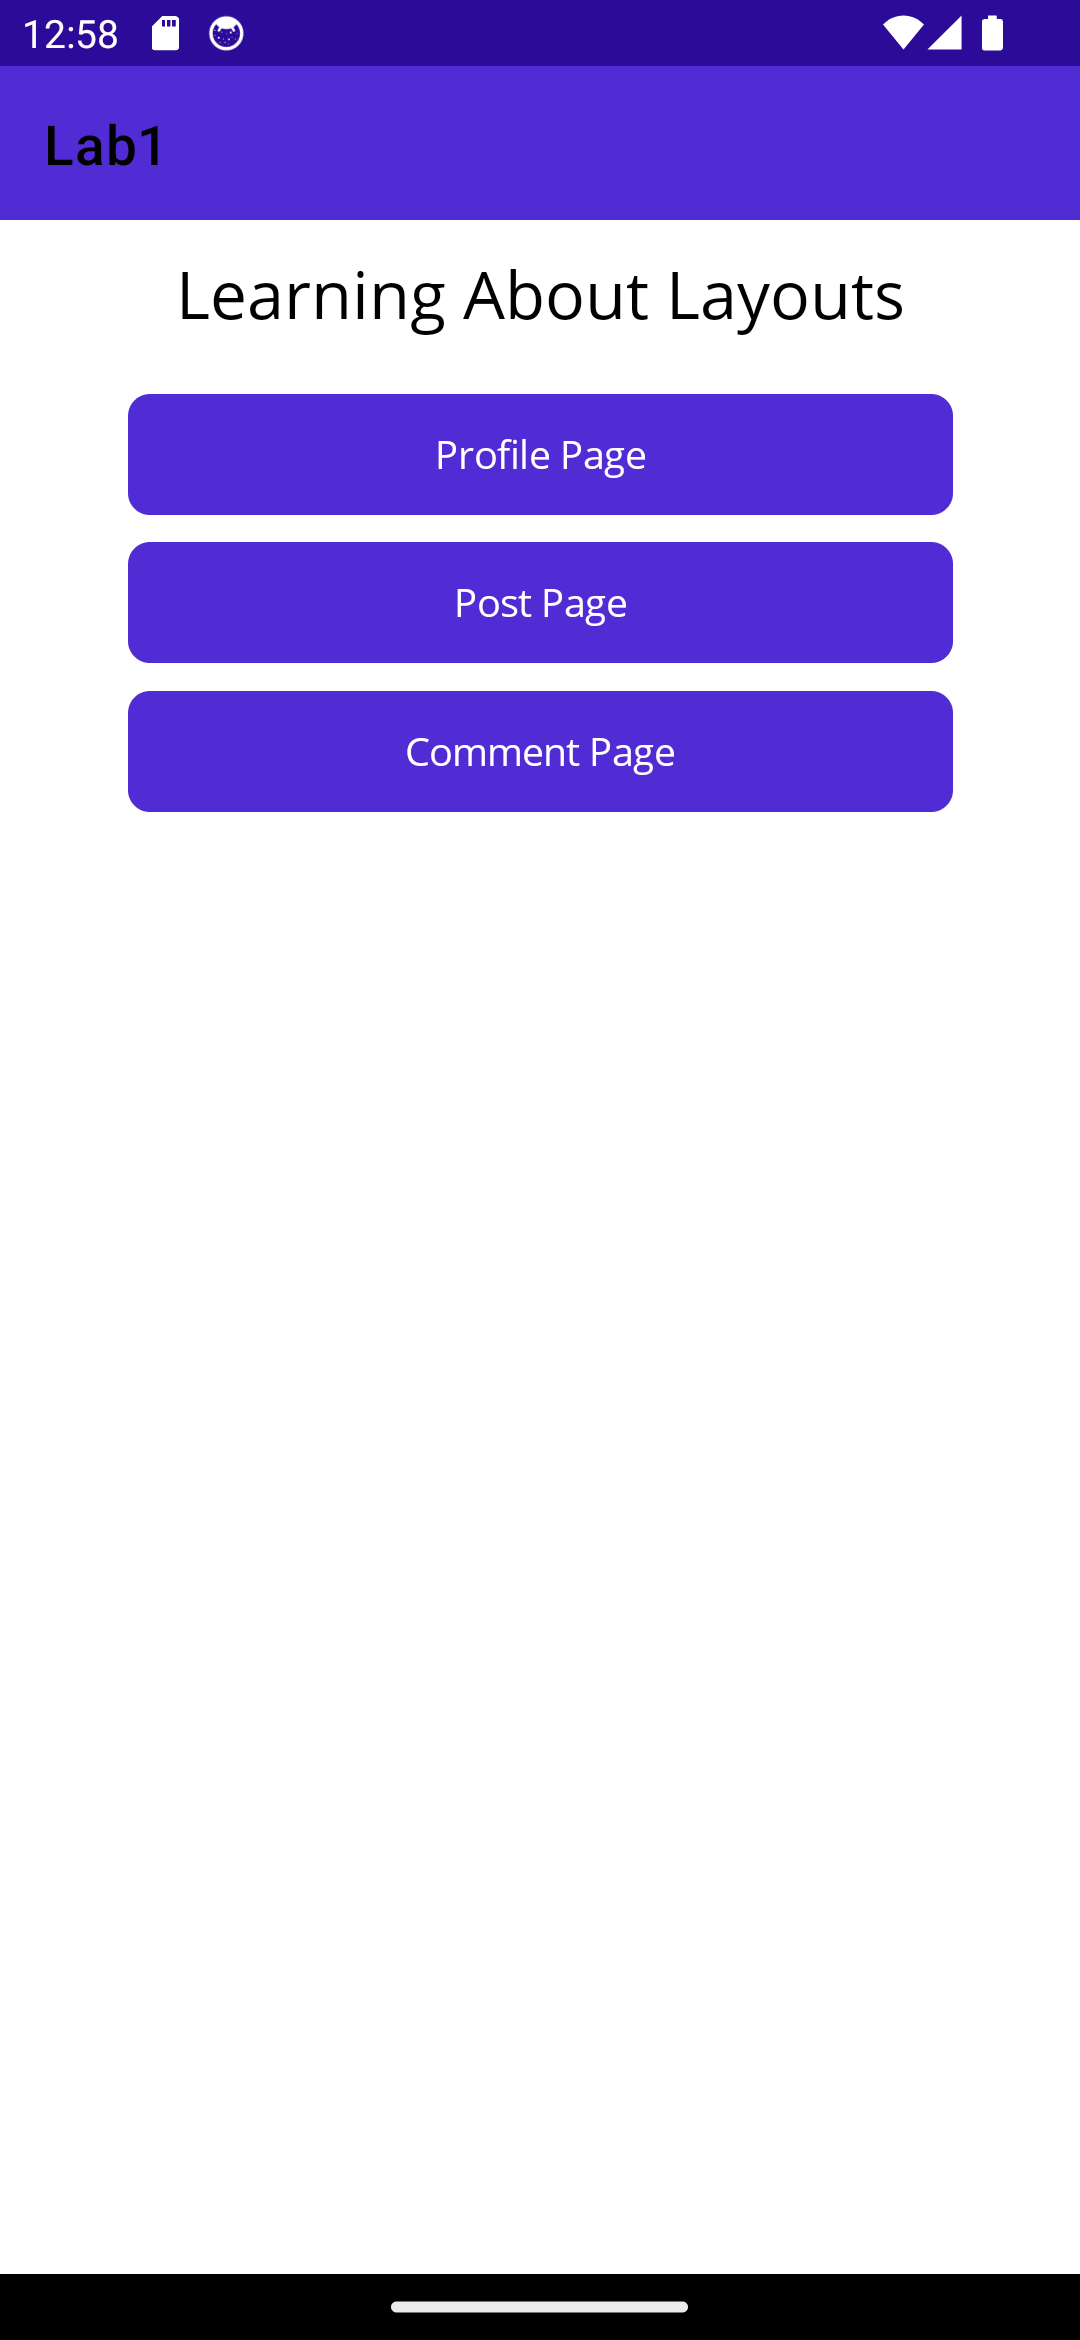
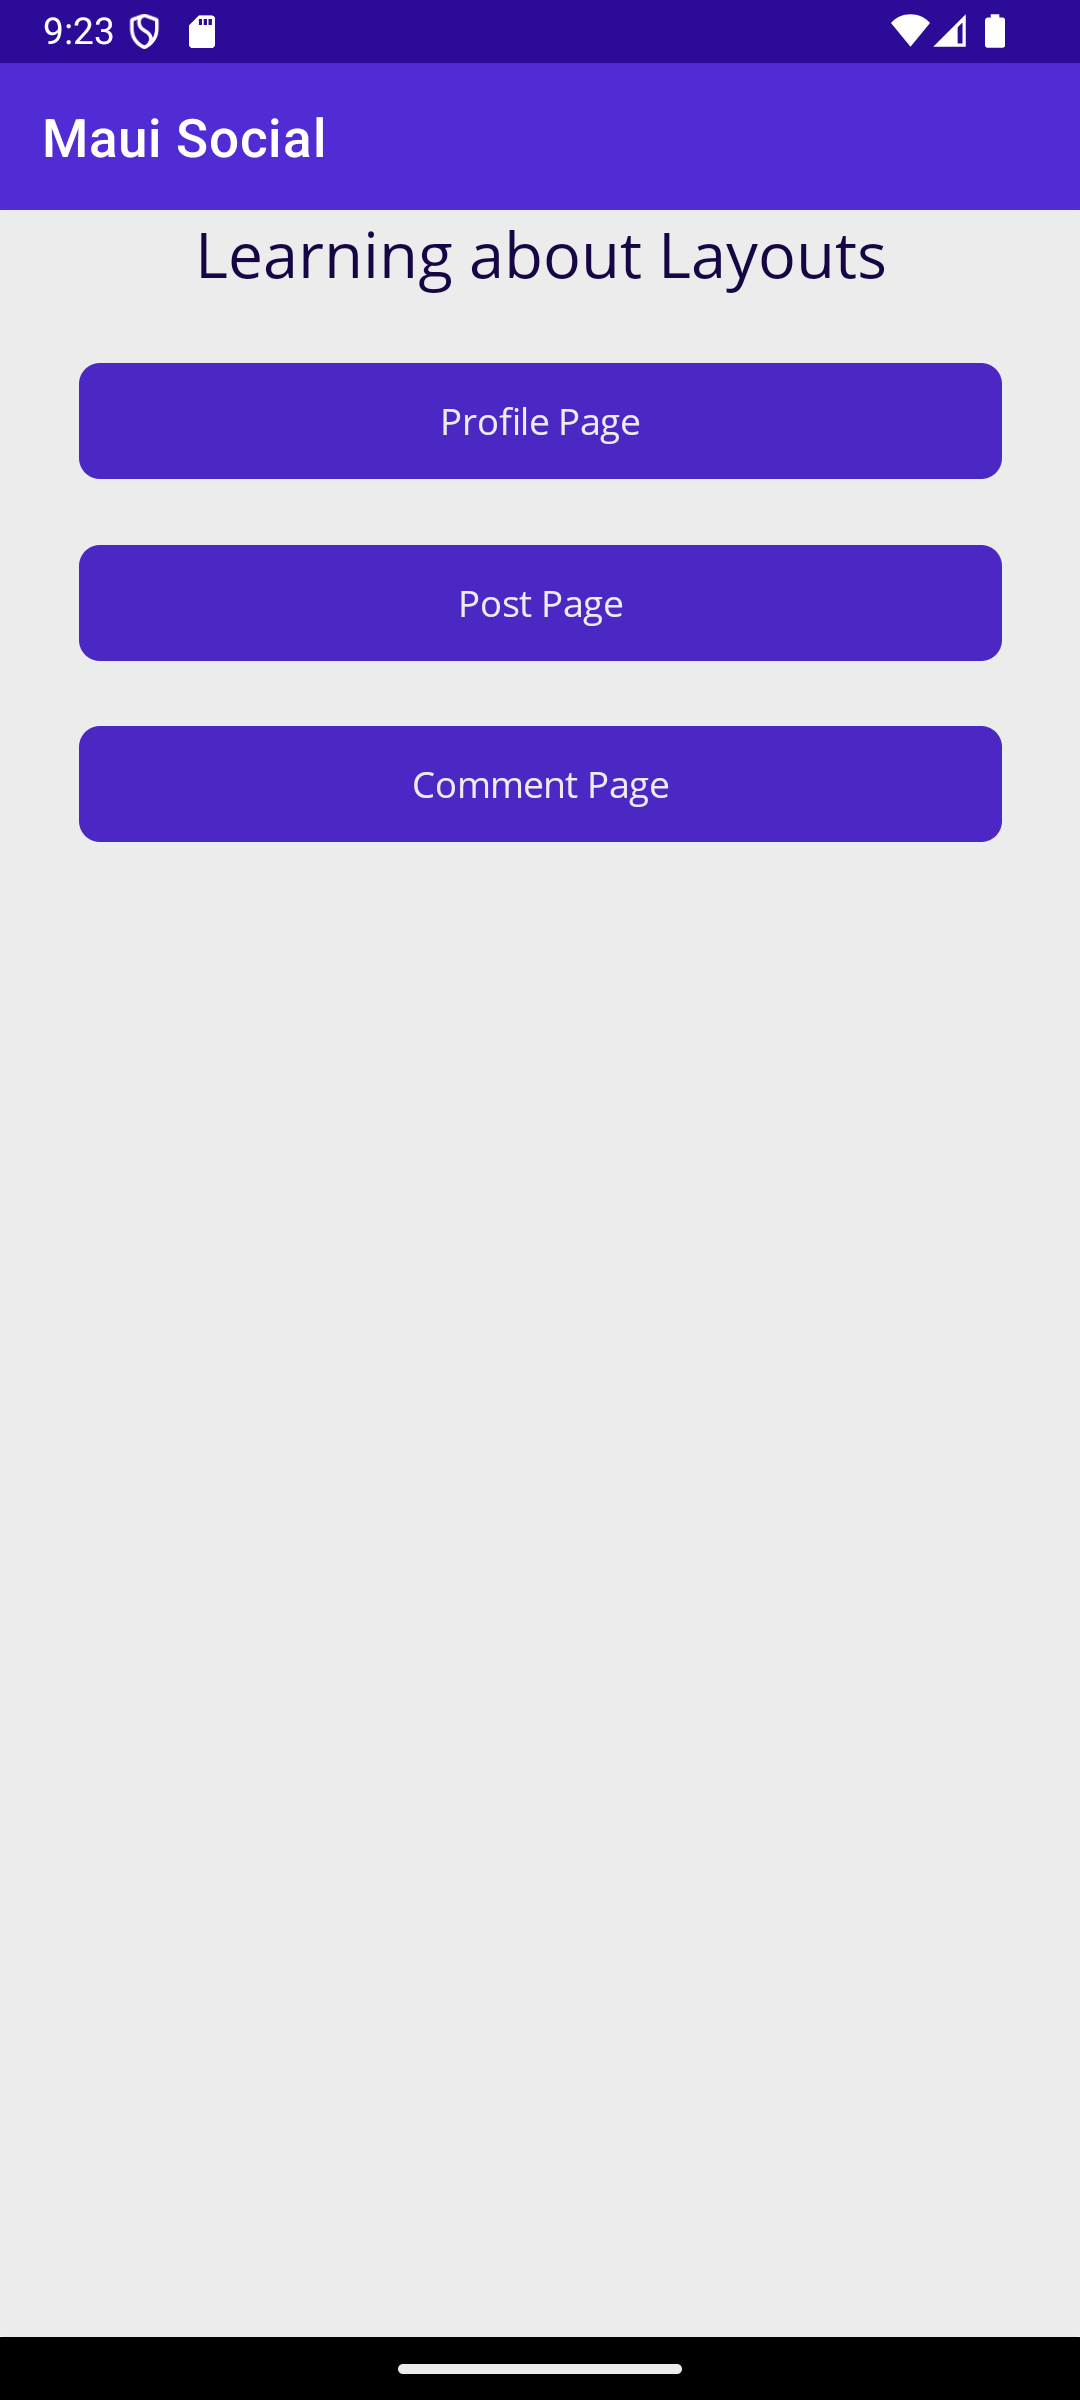
Releasing notes for week 2

Changed region(s): [[0.0, 0.0, 1.0, 0.3744], [0.3667, 0.9671, 0.6417, 0.9983], [0.825, 0.0, 0.9472, 0.0312]]

diff --git a/labs/lab1.md b/labs/lab1.md
@@ -3,41 +3,64 @@
 This lab will help you get familiar with the various MAUI layouts and controls. 
 
 - 📝 **Worth:** 2%
-- 📅 **Due:** Friday Feb 9, 2023 @End of class
+- 📅 **Due:** Friday Feb 7, 2025 @End of class
 - 🕑 **Late submissions:** 3 days maximum. 10% penalty per day.
-- 📥 **Submission:** In class 
+- 📥 **Submission:** Demo In class (1%) + Code submission on Github
 
 
 
 ## Objectives
 
 - Create the UI skeleton for a social media app
-- Use a Grid Layout
-- Use a Vertical and Horizontal Stack Layout
-- Use the Absolute Layout
+- Getting familiar with MAUI's basic layouts
+  - Grid Layout
+  - Vertical and Horizontal Stack Layout
+  - Absolute Layout
+
 
 
 
 ## Create a MAUI Project
 
 - Create a .NET MAUI Project
+
 - Name: **Lab1**
-- ⚠ IMPORTANT USE **.NET** **7** 
+
+- ⚠ IMPORTANT USE **.NET** **8**  
+
+  > Note: This version is installed on the school computer and the one tested for the instructions below.
 
 #### Target platform
 
-For this lab we will be testing the app on two different form factors:
+For this lab we will be testing the app on two different platforms with different form factors:
 
-- Android Emulator: Pixel 5 - API 34
-- Windows Machine
+- Android Emulator of your choice: Google Pixel 5, 6 or 7
+
+> If you wish to develop on a Mac computer and test on the iOS emulator, the instructions shouldn't be different. But I haven't tested all the steps on iOS.
+
+
 
 ## Modify the Main Page
 
 - Modify the main page to include:
 
-  - A `Label`: `Text`=`"Learning About Layouts"`, `FontSize`=`"Title"`. Make sure the Label is centered horizontally.
+  - A `Title`: `"MauiSocial"`. This can be set in the opening tag of the `ContentPage`:
+
+    ```xml
+    <ContentPage xmlns="http://schemas.microsoft.com/dotnet/2021/maui"
+                 xmlns:x="http://schemas.microsoft.com/winfx/2009/xaml"
+                 Title="Maui Social"
+                 x:Class="MauiSocial.MainPage">
+    ```
+
+    
+
+  - A `Label`: `Text`=`"Learning About Layouts"`, `Style="{StaticResource SubHeadline}"`. Make sure the Label is centered horizontally.
+
   - A `button`: `Text`=`"Profile Page"`, `Clicked` (create a new event handler)
+
   - A `button`: `Text`=`"Post Page"`, `Clicked` (create a new event handler)
+
   - A `button`: `Text`=`"Comment Page"`, `Clicked` (create a new event handler)
 
   
@@ -48,29 +71,32 @@ For this lab we will be testing the app on two different form factors:
 
 - Rename your event handlers so that they follow the standard ***Btn_ButtonName_Clicked***
 
+- Remove the unused code in the code behind
 
-#### App Navigation
 
-- The app consists of three main pages:
-  - Profile Page
-  - Post Page
-  - Comment Page
+## App Navigation
 
 - We will use the basic stack navigation we have used so far in this course
 
+- Create a folder called Views. Add newly created pages in this folder.
 
+- Add three new `ContentPage.xaml` with the following names:
+  
+  - `ProfilePage.xaml`
+  - `PostPage.xaml`
+  - `CommentPage.xaml`
+  
+- Use the event handlers created in the `MainPage.xaml.cs` to push a new instance of each page as done in Lab0.
 
-
-
-> Create a folder called Views. Add newly created pages in this folder.
+  
 
 
 
 ## Modify the Profile Page
 
-- Warning! Make sure to use .NET 7 because Microsoft 
-
 - Download the following [sample](../files/Lab1_sample_images.zip) images and place them into your  `Resources > Images` folder
+
+  > Note: Place all the images at the root of the `Images` folder, if you wish to keep them organized in subfolders, you must add each subfolder content to app embedded resources 
 
 - Modify the default `ProfilePage.xaml` to include the following:
 
@@ -124,15 +150,15 @@ For this lab we will be testing the app on two different form factors:
   - (4,0) to (5,2) `Image`
     - `Source` : use the sample images to populate the mosaic
     - `Aspect`="AspectFill"
+
   
+
   
+
   
-  
-  
-  
-  
+
   This is what your layout should look like
-  
+
   
 
 <img src="../images/labs_images/Lab1/Lab1_grid.png" height=400 class="inline-img"/>

diff --git a/_sidebar.md b/_sidebar.md
@@ -1,25 +1,16 @@
 - **Notes**
   - [**CPAD**](notes/Lecture1_CPAD.md)
   - [**MAUI Intro**](notes/Lecture2_MAUI_Architecture.md)
-
-- **LMS Links**
-  - [![Class Teams](https://icongr.am/material/microsoft-teams.svg?size=16&color=currentColor)Class Teams](https://teams.microsoft.com/l/team/19%3AO6W4FAHaNWqDTgJvw9R34xKNKoRiwL3EP1GEdig7ATk1%40thread.tacv2/conversations?groupId=d427b10f-cfd1-4e14-ad02-c727ffe38b15&tenantId=22c202c2-382c-447b-a023-d0a866d1d426)
-  - [![Outline icon](https://icongr.am/fontawesome/list.svg?size=16&color=808080)Outline](https://john-abbott-college.github.io/6A6-Notes/files//WINTER_2025_COMPUTER_SCIENCE.420-6A6-AB.BADAWYY.pdf)
+  - [**MAUI Layouts**](notes/Lecture3_MAUILayouts.md)
+  - [**Data Binding**](notes/Lecture4_DataBinding.md)
+  
+- **Useful Links 🔗**
+  - [Class Teams 💬](https://teams.microsoft.com/l/team/19%3AO6W4FAHaNWqDTgJvw9R34xKNKoRiwL3EP1GEdig7ATk1%40thread.tacv2/conversations?groupId=d427b10f-cfd1-4e14-ad02-c727ffe38b15&tenantId=22c202c2-382c-447b-a023-d0a866d1d426)
+  - [Outline 🗎](https://john-abbott-college.github.io/6A6-Notes/files//WINTER_2025_COMPUTER_SCIENCE.420-6A6-AB.BADAWYY.pdf)
 
 - **Gihutb Repos**
-  - [![demos icon](https://icongr.am/material/github.svg?size=16&color=currentColor)Demos](https://github.com/AppDevIII-Code/Demos-w25)
-  - [![solutions icon](https://icongr.am/material/github.svg?size=16&color=currentColor)Solutions](https://github.com/AppDevIII-Code/Labs-w25-solutions)
+  - [Demos](https://github.com/AppDevIII-Code/Demos-w25)
+  - [Solutions](https://github.com/AppDevIII-Code/Labs-w25-solutions)
 
 
 
-<!-- 
-
-- [Week 3 (Feb 3- Feb 7)](schedule.md#week3)
-- [Week 4 (Feb 10- Feb 14)](schedule.md#week3)
-- [Week 5 (Feb 17- Feb 21)](schedule.md#week3)
-- [Week 6 (Feb 24- Feb 28)](schedule.md#week3)
-- Break
-- [Week 7 (Mar 10- Mar 14)](schedule.md#week3)
-- [Week 8 (Mar 17- Mar 21)](schedule.md#week3)
-- [Week 9 (Mar 24- Mar 28)](schedule.md#week3)
-- [Week 10 (Mar 31- Apr 4)](schedule.md#week3) -->

diff --git a/notes/Lecture3_MAUILayouts.md b/notes/Lecture3_MAUILayouts.md
@@ -121,18 +121,16 @@ Here are a few properties to explore:
 
 - `Wrap`: indicates if the items should be laid on multiple axis (values: `NoWrap`, `Wrap`, `Reverse`)
 
-- `AlignItems`: Defines how the items are distributed in the parent **within the same axis** (values: `Start`, `End`,`Center`,`Stretch`)
+- `JustifyContent`: Defines how the items are distributed in the parent **within the same axis** (values: `Start`, `End`,`Center`,`SpaceAround`, `SpaceBetween`, `SpaceEvenly`)
 
-- `AlignContent`: Defines how the items layed on multiple lines are distributed in the parent 
+- `AlignContent`: Defines how the items laid on multiple lines are distributed in the parent (values: `Start`, `End`, `Center`,`SpaceAround`, `SpaceBetween`, `SpaceEvenly`, `Stretch`)
 
   <div>
-  
   </div>
-
+  
   <div>
       <img src="images/maui_layouts/layouts_flex.png" height="500" />
-      <img src="images/maui_layouts/layouts_flex_win.png" height="300" />
-  </div>
+      <img src="images/maui_layouts/layouts_flex_win.png" height="300" /></div>
   
   
 

diff --git a/schedule.md b/schedule.md
@@ -13,8 +13,7 @@ If you miss a class, you can catch up by completing the learning activities done
 
 ## Week2
 - [Introduction to MAUI](/notes/Lecture%202%20MAUI%20Architecture.md)
-
-- [MAUI -Layouts]
+- [MAUI -Layouts](notes/Lecture3_MAUILayouts.md)
 - Lab1: Social Media Layouts
 
 

diff --git a/notes/notes_main.md b/notes/notes_main.md
@@ -4,3 +4,6 @@
 - [Cross Platform Application Development](notes/Lecture1_CPAD.md)
 
 - [.NET Multi-platform App UI](notes/Lecture2_MAUI_Architecture.md)
+
+- [MAUI Layouts](notes/Lecture3_MAUILayouts.md)
+- [Data Binding](notes/Lecture4_DataBinding.md)
